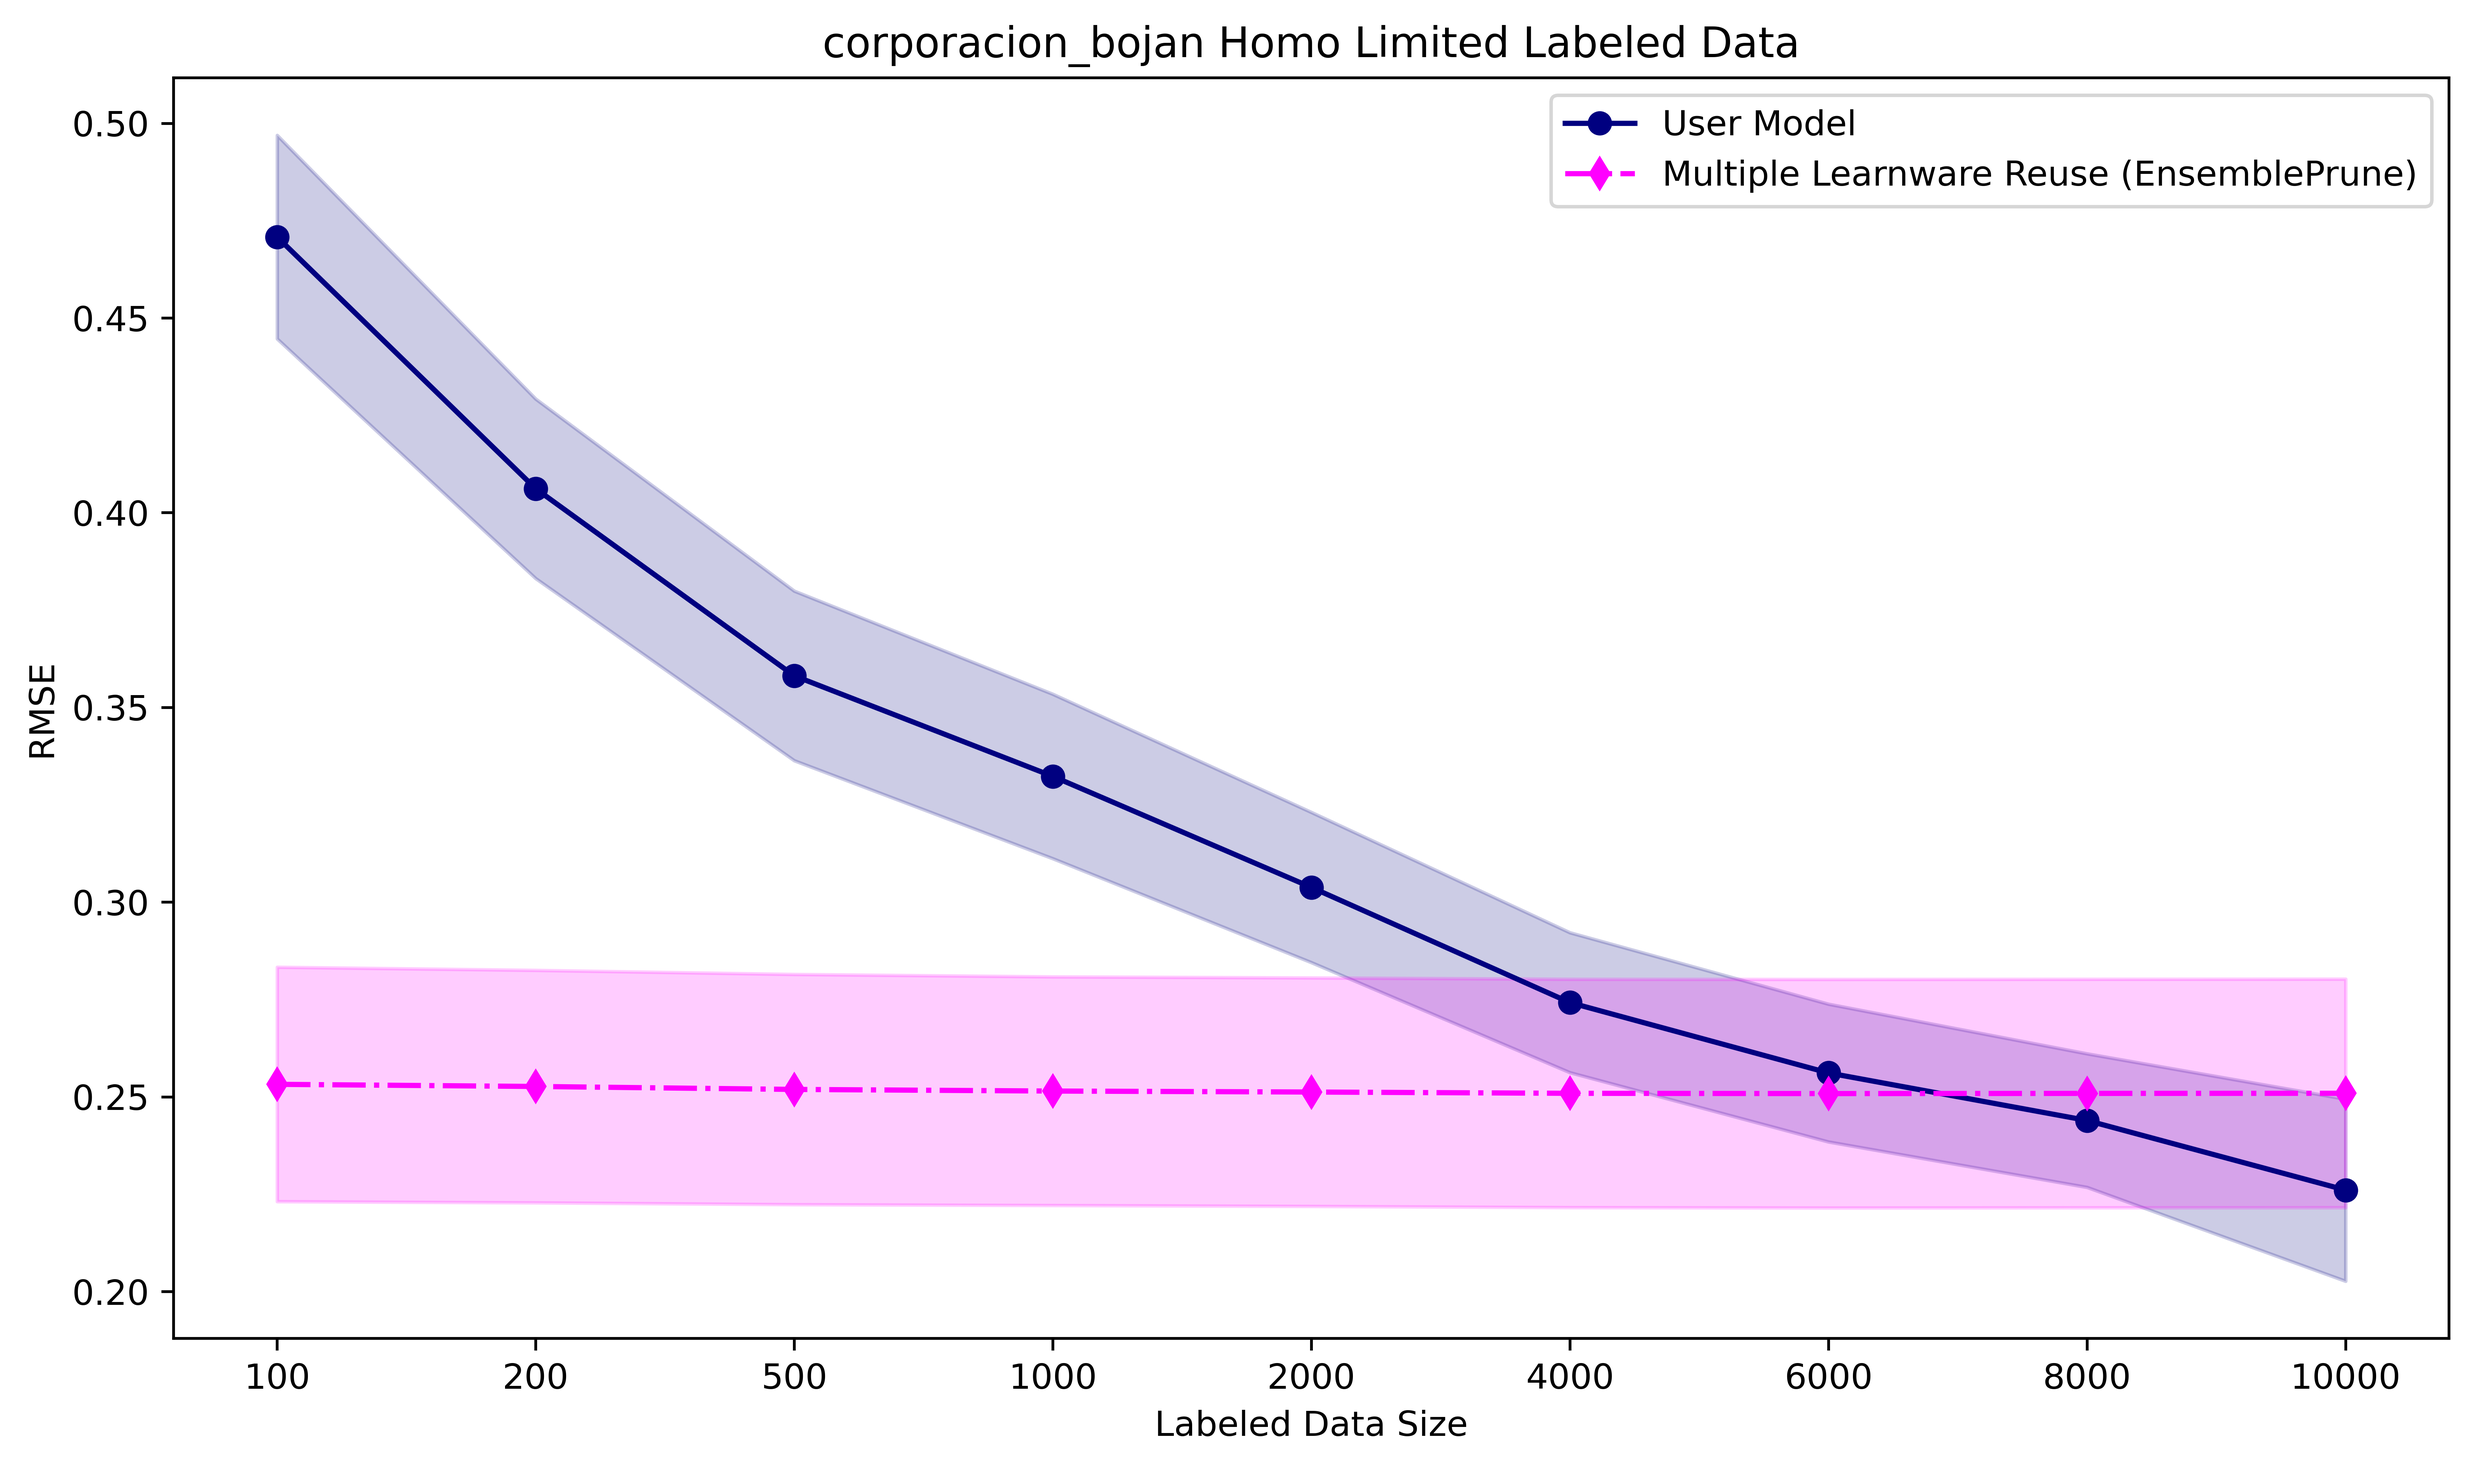
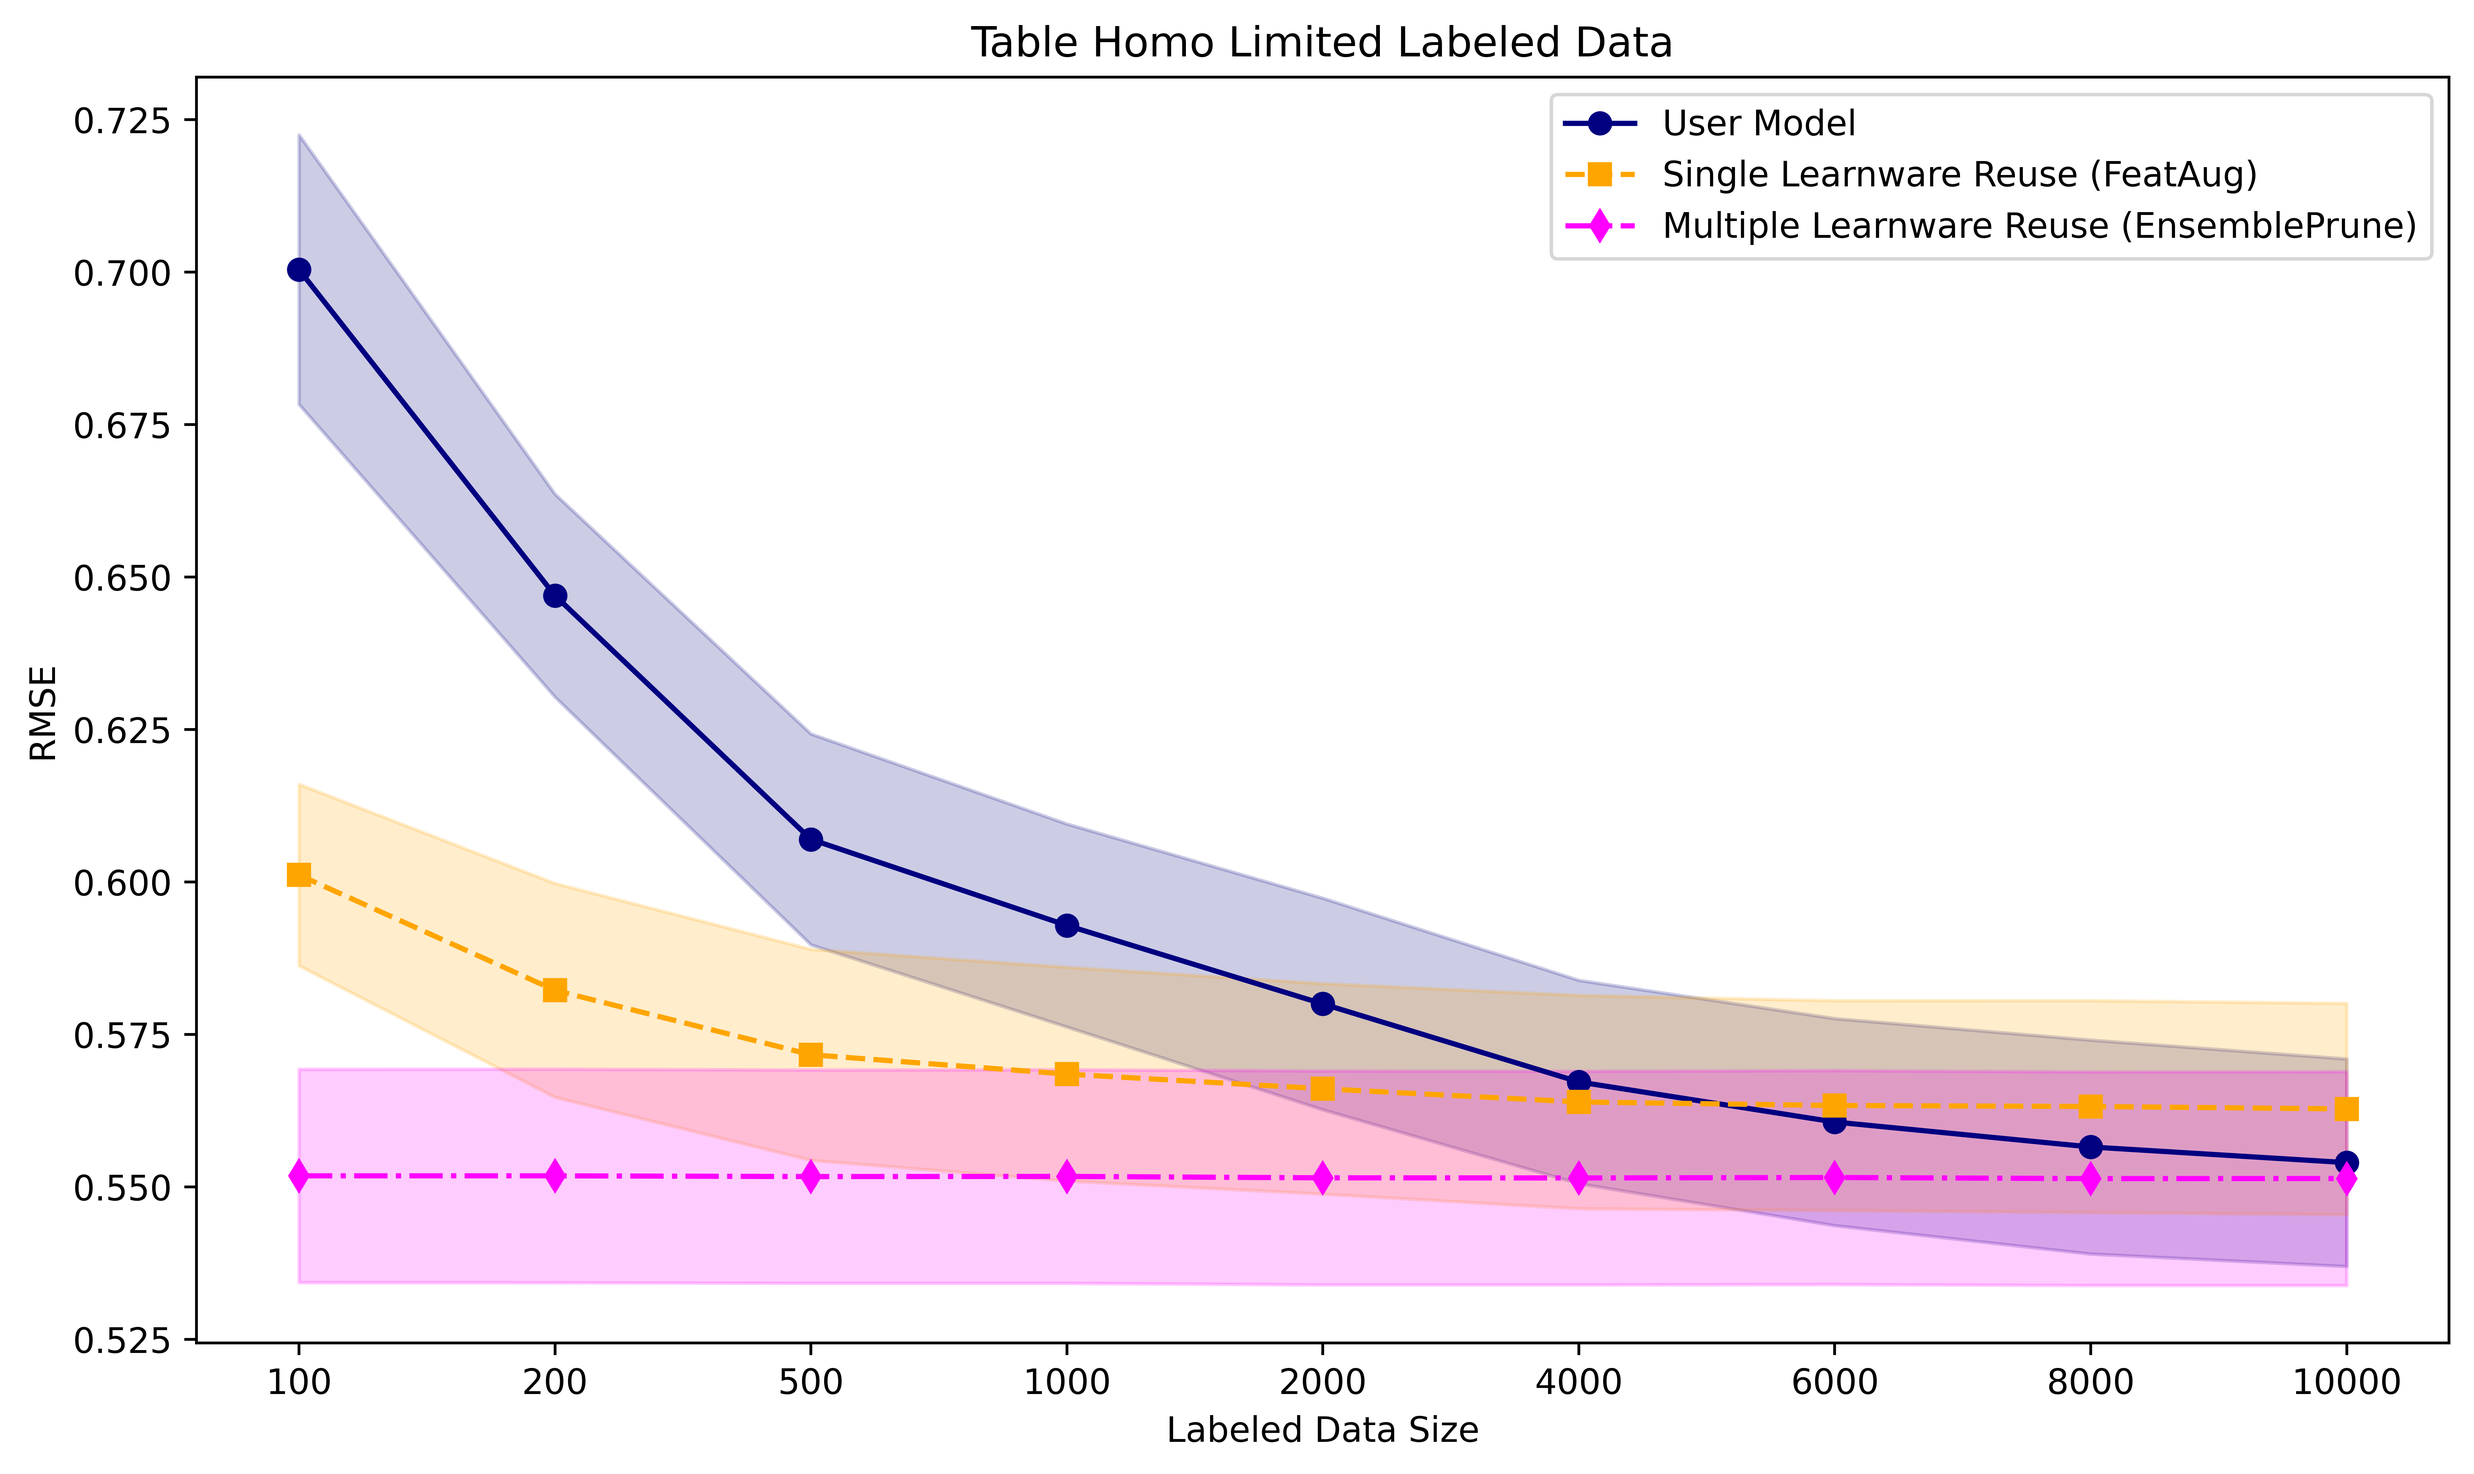
[DOC] uniform format for fig title

diff --git a/docs/start/exp.rst b/docs/start/exp.rst
@@ -49,7 +49,7 @@ Homo Experiments
 For homogeneous experiments, the 55 stores in the Corporacion dataset act as 55 users, each applying one feature engineering method, 
 and using the test data from their respective store as user data. These users can then search for homogeneous learnwares in the market with the same feature spaces as their tasks.
 
-The MSE of search and reuse is presented in the table below:
+The Mean Squared Error (MSE) of search and reuse is presented in the table below:
 
 ===================  ======================  =================  ==================
    Top-1 Reuse       Average Ensemble Reuse   Best in Market     Average in Market
@@ -58,17 +58,15 @@ The MSE of search and reuse is presented in the table below:
 ===================  ======================  =================  ==================
 
 When users have both test data and limited training data derived from their original data, reusing single or multiple searched learnwares from the market can often yield
-better results than training models from scratch on limited training data. We present the change curves in MSE for the user's self-trained model and
-a multiple learnware reuse method: Ensemble Pruning. These curves display their performance on the user's test data as the amount of labeled training data increases. 
+better results than training models from scratch on limited training data. We present the change curves in MSE for the user's self-trained model, as well as for the Feature Augmentation single learnware reuse method and the Ensemble Pruning multiple learnware reuse method. 
+These curves display their performance on the user's test data as the amount of labeled training data increases. 
 The average results across 55 users are depicted in the figure below:
 
 .. image:: ../_static/img/table_homo_labeled.png
-   :width: 300
-   :height: 200
+   :align: center
    :alt: Table Homo Limited Labeled Data
 
-From the figure, it's evident that when users have limited training data, the performance of reusing multiple table learnwares is superior to that of the user's own model. 
-However, as the user's training data increases, we anticipate the user's own model to eventually outperform learnware reuse. 
+From the figure, it's evident that when users have limited training data, the performance of reusing single/multiple table learnwares is superior to that of the user's own model. 
 This emphasizes the benefit of learnware reuse in significantly reducing the need for extensive training data and achieving enhanced results when available user training data is limited.
 
 
@@ -78,7 +76,7 @@ Hetero Experiments
 In heterogeneous experiments, the learnware market would recommend helpful heterogeneous learnwares with different feature spaces with 
 the user tasks. Based on whether there are learnwares in the market that handle tasks similar to the user's task, the experiments can be further subdivided into the following two types:
 
-Cross Feature Engineering Experiments
+Cross Feature Space Experiments
 ^^^^^^^^^^^^^^^^^^^^^^^^^^^^^^^^^^^^^^
 
 We designate the 41 stores in the PFS dataset as users, creating their user data with an alternative feature engineering approach that varies from the methods employed by learnwares in the market. 
@@ -112,8 +110,7 @@ These curves display their performance on the user's test data as the amount of 
 The average results across 10 users are depicted in the figure below:
 
 .. image:: ../_static/img/table_hetero_labeled.png
-   :width: 300
-   :height: 200
+   :align: center
    :alt: Table Hetero Limited Labeled Data
 
 We can observe that heterogeneous learnwares are beneficial when there's a limited amount of the user's labeled training data available, 
@@ -157,8 +154,7 @@ The accuracy of search and reuse is presented in the table below:
 We present the change curves in classification error rates for both the user's self-trained model and the multiple learnware reuse(EnsemblePrune), showcasing their performance on the user's test data as the user's training data increases. The average results across 10 users are depicted below:
 
 .. image:: ../_static/img/text_example_labeled_curves.png
-   :width: 300
-   :height: 200
+   :align: center
    :alt: Text Limited Labeled Data
 
 
